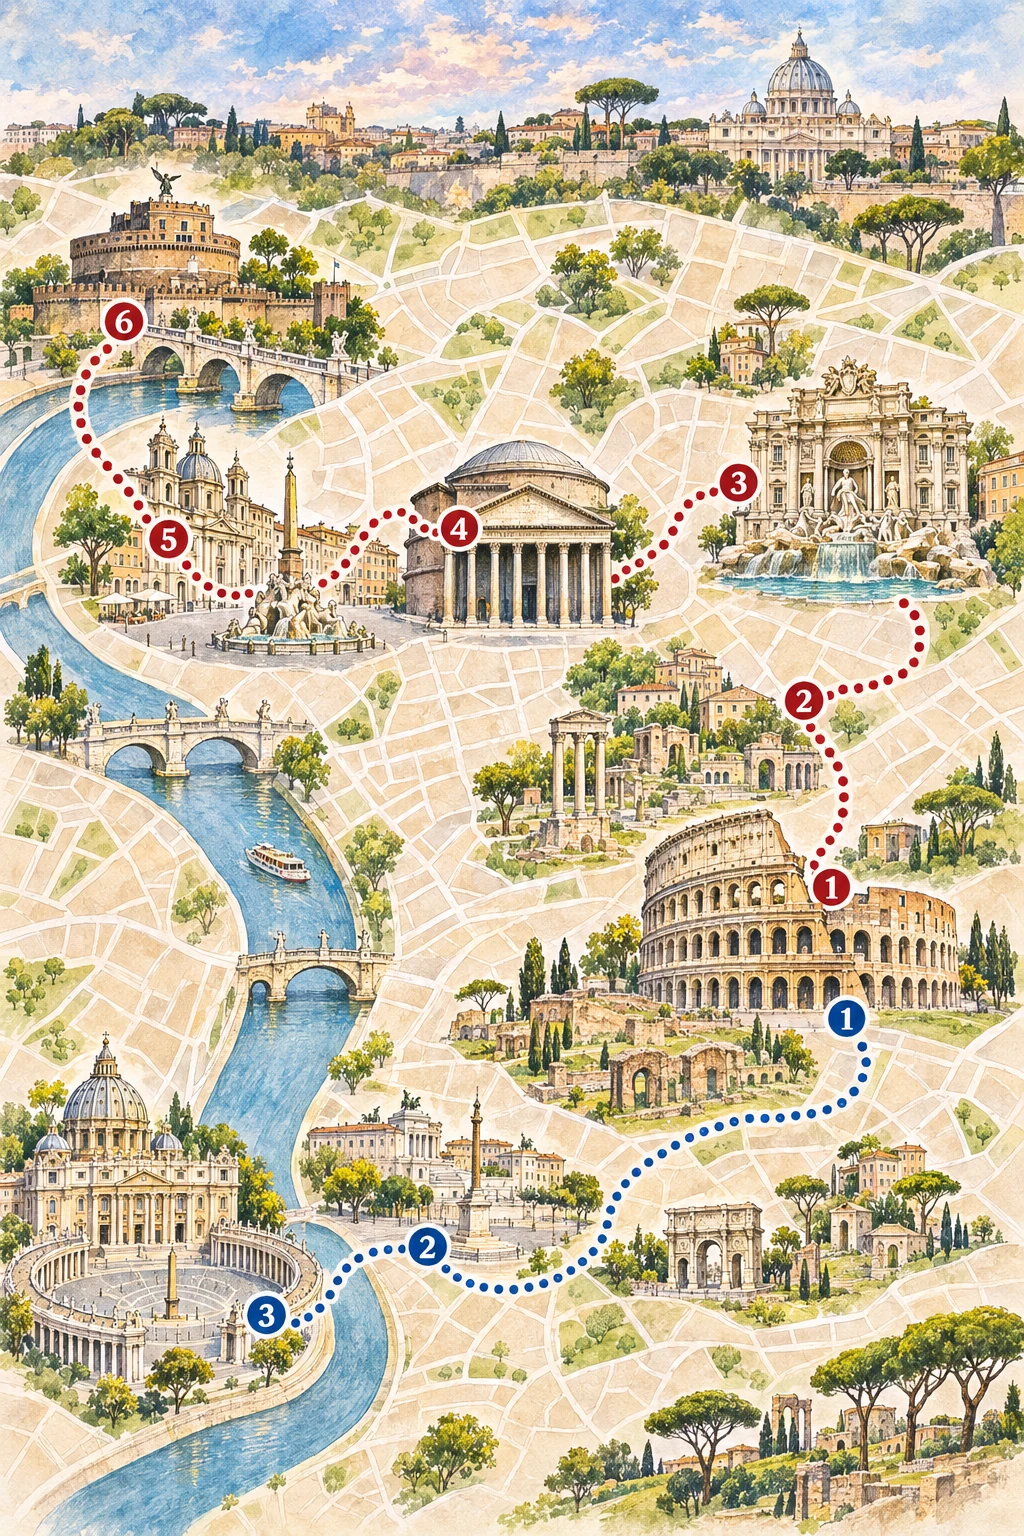
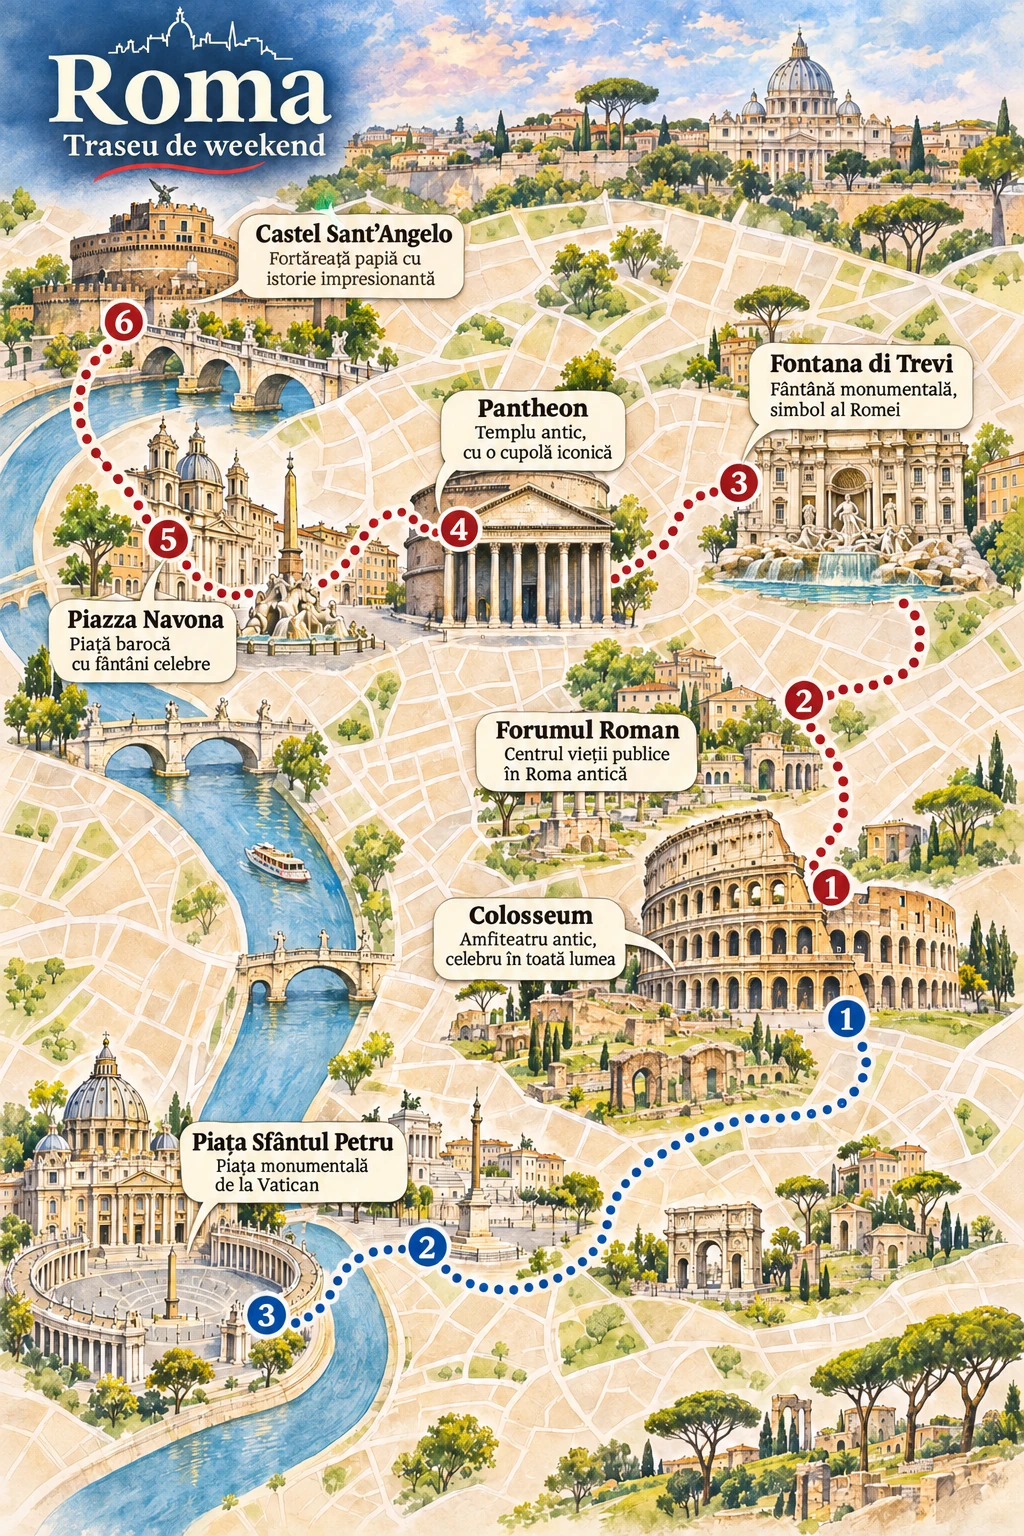
Link hero destinations and add labeled city maps

diff --git a/index.html b/index.html
@@ -244,7 +244,7 @@
     .hero h1 { --hero-title-base: clamp(32px, 3.5vw, 52px); font-size: var(--hero-title-base); line-height: 1.08; height: calc(var(--hero-title-base) * 3.24); transition: none !important; }
     .hero h1 em { transition: none !important; }
     @media(max-width:600px) { .hero h1 { --hero-title-base: 32px; } }
-    .hero-image-label strong{text-shadow:0 2px 10px rgba(0,0,0,.65)}
+    .hero-image[role="button"]{cursor:pointer}.hero-image[role="button"]:focus-visible{outline:3px solid #dfa649;outline-offset:-4px}.hero-image-label strong{text-shadow:0 2px 10px rgba(0,0,0,.65)}
     .photo-credits{max-width:1440px;width:100%;margin:18px auto 0;padding:0 clamp(16px,2vw,30px);color:#606b61;font-size:12px}
     .photo-credits summary{cursor:pointer;font-weight:700}.photo-credits ul{padding-left:18px;margin:8px 0}.photo-credits a{text-decoration:underline}
 
@@ -254,7 +254,7 @@
 
   <header class="site-header"><div class="header-inner"><a class="wordmark" href="#top" aria-label="23citybreak, pagina principală"><span class="plane-icon" aria-hidden="true">✈ </span><span>23</span><span class="wordmark-city">city</span><span>break</span></a><div class="header-right"><a href="jurnal.html">Jurnal</a></div></div></header>
   <main id="top" class="site-main">
-    <section class="hero"><div class="hero-copy"><h1 id="hero-headline">Ai numărat podurile din Praga? <em>Descoperă-le la pas.</em></h1><p>Un oraș nou, o masă bună, timp pentru tine. Acordă-ți o evadare scurtă, de weekend, din programul zilnic.</p></div><div class="hero-image"><div class="hero-image-label"><span>DESTINAȚIE DE WEEKEND</span><strong id="hero-city">Praga · Cehia</strong></div></div></section>
+    <section class="hero"><div class="hero-copy"><h1 id="hero-headline">Ai numărat podurile din Praga? <em>Descoperă-le la pas.</em></h1><p>Un oraș nou, o masă bună, timp pentru tine. Acordă-ți o evadare scurtă, de weekend, din programul zilnic.</p></div><div class="hero-image" role="button" tabindex="0" aria-label="Alege destinația din fotografie"><div class="hero-image-label"><span>DESTINAȚIE DE WEEKEND</span><strong id="hero-city">Praga · Cehia</strong></div></div></section>
 
     <!-- 2. PASUL 2: Selectare Oraș & Opțiuni Căutare -->
     <section id="configurator" class="search-panel">
@@ -1777,10 +1777,11 @@
     function handleDestKeyDown(event, input) {
       if (event.key === "Enter") {
         event.preventDefault();
-        resolveTypedDestination();
         const drop = document.getElementById("dest-autocomplete-dropdown");
+        const first = drop && !drop.classList.contains("hidden") ? drop.querySelector("button[data-destination-id]") : null;
+        if (first) selectDestination(first.dataset.destinationId);
+        else resolveTypedDestination();
         if (drop) drop.classList.add("hidden");
-        runLiveSearch();
       } else if (event.key === "Escape") {
         const drop = document.getElementById("dest-autocomplete-dropdown");
         if (drop) drop.classList.add("hidden");
@@ -2000,11 +2001,11 @@
         }
       }
 
-      matches.slice(0, 35).forEach(c => {
+      matches.slice(0, 35).forEach((c, index) => {
         if (!q && c.isAll) return;
         html += `
-          <button type="button" onclick="selectDestination('${c.id}')"
-                  class="w-full flex items-center justify-between px-3 py-2 text-xs font-bold text-left rounded-xl hover:bg-[#fce8bd] transition cursor-pointer text-[#0a0b0d] border border-transparent hover:border-[#dfa649]">
+          <button type="button" data-destination-id="${escapeHtml(c.id)}" onclick="selectDestination('${c.id}')"
+                  class="${q && index === 0 ? 'bg-[#fff3d8] border-[#dfa649]' : ''} w-full flex items-center justify-between px-3 py-2 text-xs font-bold text-left rounded-xl hover:bg-[#fce8bd] transition cursor-pointer text-[#0a0b0d] border border-transparent hover:border-[#dfa649]">
             <div class="flex items-center gap-2">
               <span class="text-base">${c.flag || "✈"}</span>
               <div>
@@ -4063,6 +4064,16 @@
     let heroIndex = 0;
     const hero = document.querySelector('.hero-image');
     const heroCity = document.getElementById('hero-city');
+    let displayedHeroCity = 'Praga';
+    function chooseHeroCity() {
+      const name = normalizeDestQuery(displayedHeroCity);
+      const city = ALL_EUROPE_CITIES.find(c => !c.isAll && normalizeDestQuery(c.name) === name) || (name === 'florenta' ? ALL_EUROPE_CITIES.find(c => c.id === 'City:pisa_it') : null);
+      if (!city) return;
+      selectDestination(city.id);
+      document.getElementById('dest-search-input').scrollIntoView({behavior:'smooth', block:'center'});
+    }
+    hero.addEventListener('click', chooseHeroCity);
+    hero.addEventListener('keydown', event => { if (event.key === 'Enter' || event.key === ' ') { event.preventDefault(); chooseHeroCity(); } });
     const heroPhotoCache = new Map();
     function getHeroPhoto(item) {
       if (!heroPhotoCache.has(item.image)) {
@@ -4127,6 +4138,8 @@
         }
         hero.style.backgroundImage = `linear-gradient(90deg,#111211 0%,transparent 24%),linear-gradient(0deg,rgba(0,0,0,.52),transparent 60%),url("${url}")`;
         heroCity.textContent = `${item.name} · ${item.country}`;
+        displayedHeroCity = item.name;
+        hero.setAttribute('aria-label', `Alege ${item.name} ca destinație`);
         const headline = heroHeadlines[item.name] || [`Descoperă ${item.name}.`, 'Alege-ți următorul weekend.'];
         const heading = document.getElementById('hero-headline');
         const highlight = document.createElement('em');
